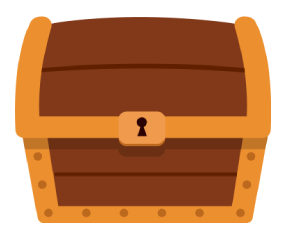
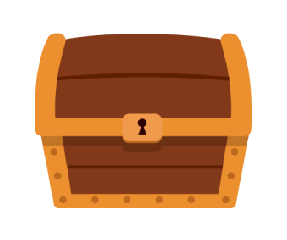
fix

diff --git a/css/global.css b/css/global.css
@@ -135,8 +135,8 @@ input[type="text"] {
 }
 
 .mod-chest-cont {
-	background: url(../img/open-bg-top.png) center top no-repeat, url(../img/open-bg-bottom.png) center bottom no-repeat;
-	background-size: 276px auto;
+	background: url(../img/light2.png) no-repeat center center;
+	background-size: 80% auto;
 	width: 276px;
 	margin: 27px auto 118px;
 	position: relative;
@@ -149,9 +149,9 @@ input[type="text"] {
 	bottom: 80px;
 	left: 0px;
 	content: "";
-	background: #ebdf99;
-	border-left: #e59c00 1px solid;
-	border-right: #e59c00 1px solid;
+	/* background: #ebdf99; */
+	/* border-left: #e59c00 1px solid; */
+	/* border-right: #e59c00 1px solid; */
 	box-sizing: border-box;
 }
 
@@ -184,19 +184,20 @@ input[type="text"] {
 }
 
 .mod-chest .chest-close .gift {
-	width: 265px;
-	height: 170px;
-	background: url(../img/chest2.png) no-repeat 0px -360px;
-	/* background-size: 150px auto; */
+	width: 285px;
+	height: 240px;
+	background: url(../img/chest4.png) no-repeat center center;
+	background-size: 70% auto;
 	position: absolute;
 	left: 0;
 	top: 0px;
 }
 .mod-chest .chest-open {
-	width: 265px;
-	height: 170px;
-	background: url(../img/chest2.png) no-repeat -265px -360px;
+	width: 285px;
+	height: 240px;
+	background: url(../img/chest4-open.png) no-repeat center center;
 	opacity: 0;
+  background-size: 90% auto;
 	position: relative;
 	z-index: 1;
 	position: absolute;
@@ -206,9 +207,9 @@ input[type="text"] {
 
 .mod-chest .chest-open .mod-chest-cont {
 	position: absolute;
-	bottom: 4px;
+	bottom: 20px;
 	left: 50%;
-	margin-left: -160px;
+	margin-left: -140px;
 }
 
 .mod-chest .show {

diff --git a/css/open.css b/css/open.css
@@ -5,7 +5,7 @@
 	display: flex;
 	flex-wrap: wrap-reverse;
 	justify-content: center;
-	/* align-items: center; */
+	align-items: center;
   align-content: center
 }
 
@@ -36,6 +36,8 @@
 	height: 200px;
 	width: 25%;
 	/* margin: 0px auto; */
+  padding-bottom: 50px;
+  padding-top: 50px;
 }
 
 .open-has .title-close {
@@ -80,14 +82,16 @@
 .mod-chest .chest-close .tips {
 	width: 166px;
 	height: 60px;
-	color: #EFEFF4;
+	color: #ec902f;
 	font-size: 35px;
 	text-align: center;
 	/* background: url(../img/txt-tips-open.png) 0px 0px no-repeat; */
 	background-size: 190px auto;
 	position: absolute;
-	left: 70px;
-	top: 145px;
+	left: 60px;
+	top: 220px;
+  font-family: cursive;
+  font-weight: bold;
 	-webkit-transition: all .5s;
 }
 
@@ -107,8 +111,8 @@
 	width: 320px;
 	height: 300px;
 	position: absolute;
-	top: -100px;
-	left: -61px;
+/* 	top: -100px;
+	left: -610px; */
 	content: "";
 	display: block;
 }
@@ -153,7 +157,7 @@
 
 /*.open-has.opened .mod-chest{-webkit-transform:translate(0px,150px);}*/
 .open-has.opened .mod-chest .chest-open {
-	-webkit-transform: translate(0px, 50px);
+	/* -webkit-transform: translate(0px, 50px); */
 }
 
 .open-has .mod-chest-cont {
@@ -174,11 +178,13 @@
 }
 
 .open-has .mod-chest-cont .gift {
-	color: #000000;
-	font-size: 30px;
+	color: #FFFFFF;
+	font-size: 35px;
 	line-height: 30px;
 	padding-bottom: 30px;
 	height: 60px;
+  font-family: cursive;
+  font-weight: bold;
 }
 
 .open-has .mod-chest-cont .gift .icon {

diff --git a/config.js b/config.js
@@ -28,5 +28,5 @@ const source = {
 			"text2": "翻2倍"
 		}
 	],
-	"tips": ["一帆风顺", "二龙腾飞", "三阳开泰", "四季发财", "五福临门", "六六大顺", "七星高照", "八方来财"]
+	"tips": [ "四季发财", "五福临门", "六六大顺", "七星高照","一帆风顺", "二龙腾飞", "三阳开泰", "八方来财"]
 }

diff --git a/index.html b/index.html
@@ -51,7 +51,7 @@
 					'<div class="chest-close show">' +
 					'<div class="gift"></div>' +
 					'<div class="tips">' +
-					// (i + 1) +
+					 (source.tips[i]) +
 					'</div>' +
 					'</div>' +
 					'<div class="chest-open">' +
